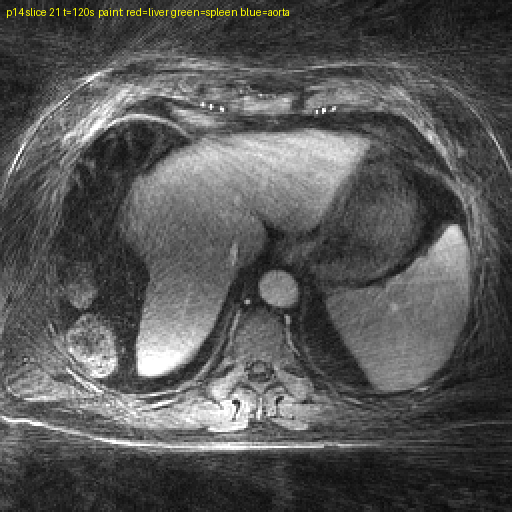
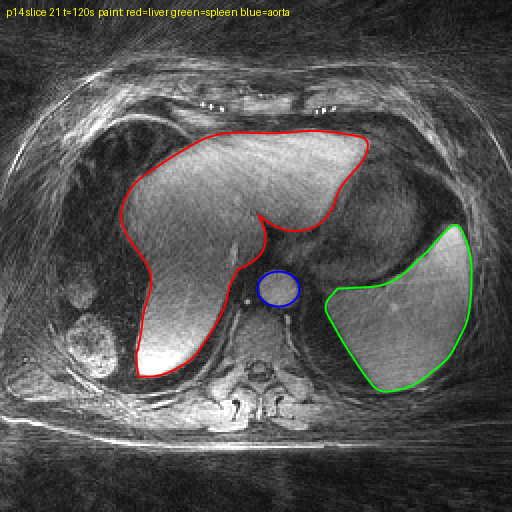
p14 manual roi outlines (user, 2026-09-25) + ingest that fills outlines (queue 087)

diff --git a/roi_manual_ingest.py b/roi_manual_ingest.py
@@ -8,6 +8,7 @@ B = "/net/beegfs/users/P101440/DCE_NIK"; sys.path.insert(0, B); import dsp
 ap = argparse.ArgumentParser(); ap.add_argument("--slices", default="21,24,27"); ap.add_argument("--erode", type=int, default=2); a = ap.parse_args()
 for Z in [int(s) for s in a.slices.split(",")]:
     p = f"{B}/results/rois_manual/{dsp.DS}_sl{Z}.png"
+    if not os.path.exists(p): p = f"{B}/results/rois_manual/template_{dsp.DS}_sl{Z}_t120.png"                      # outlines drawn on the template itself
     if not os.path.exists(p): print("no painting for slice", Z); continue
     z = np.load(dsp.STEP2(Z)); mf = np.abs(z["mf"]).transpose(1, 2, 0).astype(np.float32); tmf = np.asarray(z["tmf"], float); H, W = mf.shape[:2]
     rgb = np.asarray(Image.open(p).convert("RGB")).astype(int); r, g, b = rgb[..., 0], rgb[..., 1], rgb[..., 2]
@@ -15,6 +16,7 @@ for Z in [int(s) for s in a.slices.split(",")]:
     old = dict(np.load(dsp.ROIS(Z), allow_pickle=True)) if os.path.exists(dsp.ROIS(Z)) else {}; rois = {}
     for k, m in cls.items():
         if m.sum() < 20: rois[k] = old[k].astype(bool) if k in old else np.zeros((H, W), bool); print(f"slice {Z} {k}: not painted, kept previous ({int(rois[k].sum())} px)"); continue
+        m = ndi.binary_fill_holes(ndi.binary_closing(m, iterations=3))                                            # outline or filled: close gaps, fill the interior at full resolution
         mm = np.asarray(Image.fromarray(m.astype(np.uint8) * 255).resize((W, H), Image.BILINEAR)) > 127; mm = ndi.binary_fill_holes(mm); mm = ndi.binary_erosion(mm, iterations=a.erode) if a.erode else mm; rois[k] = mm
     np.savez(dsp.ROIS(Z), **rois, source=f"manual painting results/rois_manual/{dsp.DS}_sl{Z}.png, eroded {a.erode} px", aorta_tag=np.array("manual")); print("slice", Z, {k: int(v.sum()) for k, v in rois.items()})
     frame = lambda ts, w=10: mf[..., (tmf > ts - w) & (tmf < ts + w)].mean(2); cur = {k: np.array([mf[..., i][v].mean() for i in range(mf.shape[-1])]) for k, v in rois.items() if v.any()}; cur = {k: c - np.median(c[tmf < 40]) for k, c in cur.items()}
